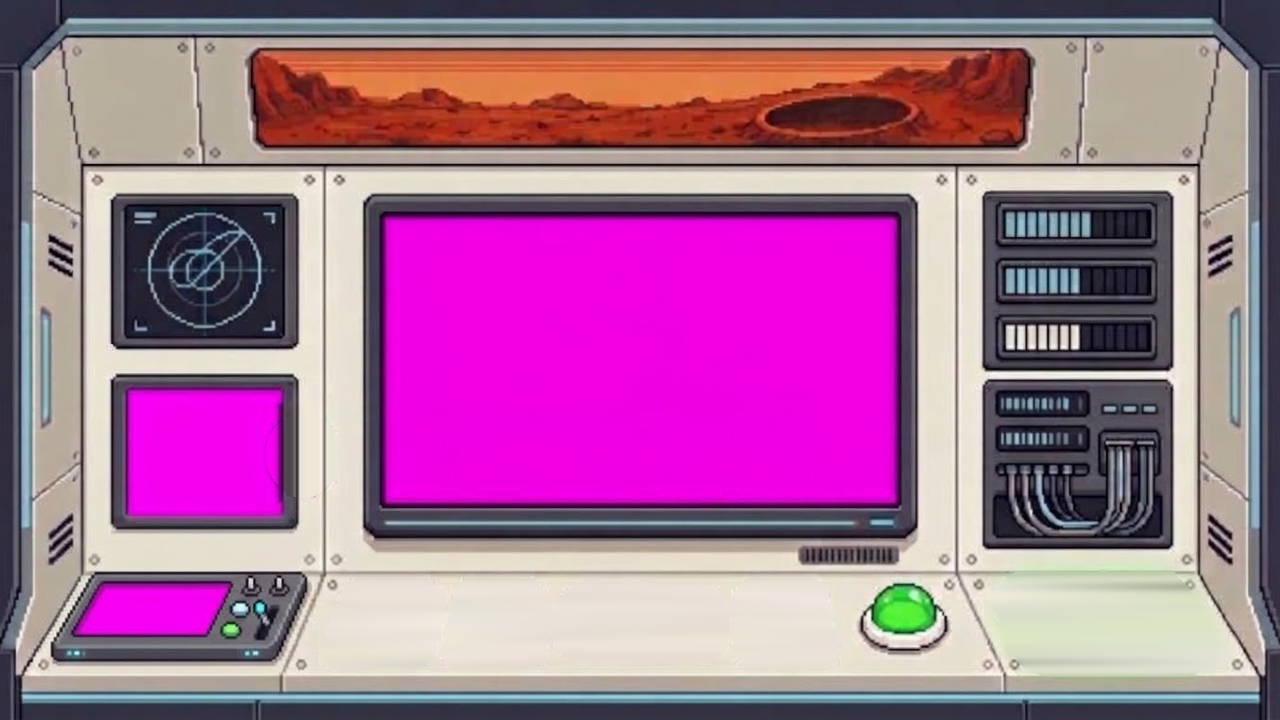
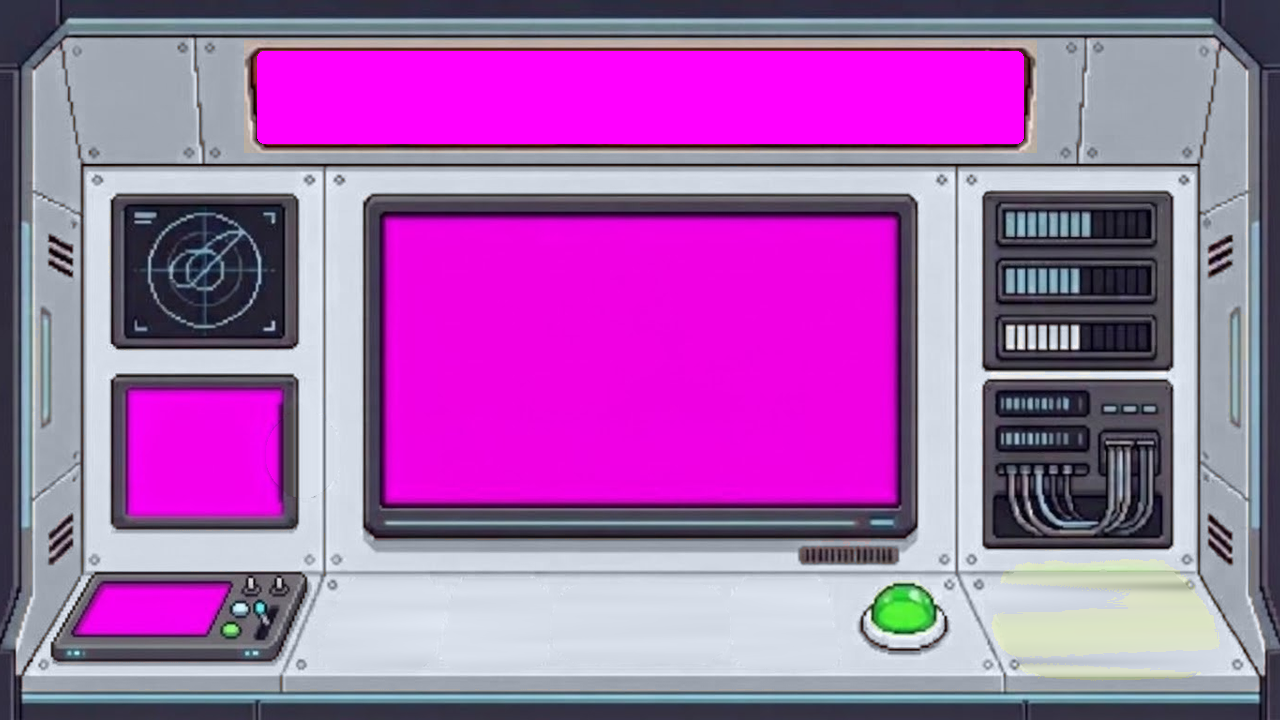
Consola como tablero bajo el parabrisas; objetos en gravedad cero
- La franja de arriba de la consola muestra el Marte real del parabrisas; grises del tablero
- Los objetos flotan lento en línea recta, giran despacio y rebotan suave; halo gris fino

diff --git a/src/scenes/cabin/floatingItems.ts b/src/scenes/cabin/floatingItems.ts
@@ -1,30 +1,65 @@
-import type Phaser from 'phaser';
+import Phaser from 'phaser';
 import { INTRO_BALANCE } from '../../config/balance';
-import { CABIN_FLOATING_ITEM_SIZE, CABIN_FLOATING_ITEMS } from '../../ui/layout';
+import {
+  CABIN_FLOATING_AREA,
+  CABIN_FLOATING_ITEM_SIZE,
+  CABIN_FLOATING_ITEMS,
+} from '../../ui/layout';
+import { PALETTE } from '../../ui/palette';
 
 /**
- * Spec 19 — A pen, a water pouch, a toy rocket, a wrench and a snack drift around the cabin:
- * in zero gravity nothing stays put. They are only decoration; nothing happens when tapped.
+ * Spec 19 — A pen, a water pouch, a toy rocket, a wrench and a snack float around the cabin.
+ * Zero gravity: nothing pushes them, so each one keeps a slow, steady drift in a straight line
+ * and a slow turn, and only changes direction when it bumps softly into a wall. A thin gray
+ * halo keeps them visible over the white walls. Only decoration: they never block a tap.
  */
-const ITEM_DEPTH = 5;
-/** Each item starts its drift a bit later, so they never move in step. */
-const STAGGER_MS = 450;
+const ITEM_DEPTH = 18;
+const HALO = { strength: 2, quality: 0.1, distance: 3 } as const;
 
-export function addFloatingItems(scene: Phaser.Scene): Phaser.GameObjects.Image[] {
-  const { itemFloatMs, itemFloatPx, itemSpinDeg } = INTRO_BALANCE;
-  return CABIN_FLOATING_ITEMS.map(({ key, x, y, angle }, index) => {
-    const item = scene.add.image(x, y, key).setAngle(angle).setDepth(ITEM_DEPTH);
-    item.setScale(CABIN_FLOATING_ITEM_SIZE / Math.max(item.width, item.height));
-    scene.tweens.add({
-      targets: item,
-      y: y - itemFloatPx,
-      angle: angle + itemSpinDeg,
-      yoyo: true,
-      repeat: -1,
-      delay: index * STAGGER_MS,
-      duration: itemFloatMs + index * STAGGER_MS,
-      ease: 'Sine.InOut',
-    });
-    return item;
+interface FloatingItem {
+  image: Phaser.GameObjects.Image;
+  velocity: Phaser.Math.Vector2;
+}
+
+export function addFloatingItems(scene: Phaser.Scene): void {
+  const items = CABIN_FLOATING_ITEMS.map(({ key, x, y, angle }) => {
+    const image = scene.add.image(x, y, key).setAngle(angle).setDepth(ITEM_DEPTH);
+    image.setScale(CABIN_FLOATING_ITEM_SIZE / Math.max(image.width, image.height));
+    image.preFX?.addGlow(PALETTE.metal, HALO.strength, 0, false, HALO.quality, HALO.distance);
+    spin(scene, image);
+    return { image, velocity: randomDrift() };
+  });
+  const drift = (_time: number, deltaMs: number) => items.forEach((item) => move(item, deltaMs));
+  scene.events.on(Phaser.Scenes.Events.UPDATE, drift);
+  scene.events.once(Phaser.Scenes.Events.SHUTDOWN, () =>
+    scene.events.off(Phaser.Scenes.Events.UPDATE, drift),
+  );
+}
+
+function randomDrift(): Phaser.Math.Vector2 {
+  const { itemDriftMinPxPerSecond, itemDriftMaxPxPerSecond } = INTRO_BALANCE;
+  const speed = Phaser.Math.FloatBetween(itemDriftMinPxPerSecond, itemDriftMaxPxPerSecond);
+  return new Phaser.Math.Vector2(speed, 0).rotate(Phaser.Math.FloatBetween(0, Math.PI * 2));
+}
+
+/** Straight ahead at the same speed; a soft bounce off the edges of the cabin. */
+function move({ image, velocity }: FloatingItem, deltaMs: number): void {
+  const { x, y, width, height } = CABIN_FLOATING_AREA;
+  image.x += (velocity.x * deltaMs) / 1000;
+  image.y += (velocity.y * deltaMs) / 1000;
+  if (image.x < x || image.x > x + width)
+    velocity.x = Math.sign(x + width / 2 - image.x) * Math.abs(velocity.x);
+  if (image.y < y || image.y > y + height)
+    velocity.y = Math.sign(y + height / 2 - image.y) * Math.abs(velocity.y);
+}
+
+/** A slow turn that never stops, clockwise or not. */
+function spin(scene: Phaser.Scene, image: Phaser.GameObjects.Image): void {
+  const { itemSpinMinMs, itemSpinMaxMs } = INTRO_BALANCE;
+  scene.tweens.add({
+    targets: image,
+    angle: image.angle + Phaser.Math.RND.pick([-1, 1]) * 360,
+    repeat: -1,
+    duration: Phaser.Math.Between(itemSpinMinMs, itemSpinMaxMs),
   });
 }

diff --git a/src/ui/layout.ts b/src/ui/layout.ts
@@ -167,7 +167,7 @@ export const CABIN_DASHBOARD_ZONE: Rect = { x: 262, y: 146, width: 116, height: 
 /** Edge of the dashboard screens, framed by the highlight when the guide points at it. */
 export const CABIN_DASHBOARD_OUTLINE: Rect = { x: 278, y: 151, width: 86, height: 26 };
 export const CABIN_GUIDE_SPOT: Point = { x: 125, y: 75 };
-/** Loose things floating in zero gravity, away from what a kid has to tap. */
+/** Loose things floating in zero gravity: where each one starts its drift. */
 export const CABIN_FLOATING_ITEMS = [
   { key: 'floatingPen', x: 205, y: 40, angle: -20 },
   { key: 'floatingSnack', x: 458, y: 52, angle: 15 },
@@ -177,6 +177,8 @@ export const CABIN_FLOATING_ITEMS = [
 ] as const;
 /** The floating things are drawn about this many game pixels tall. */
 export const CABIN_FLOATING_ITEM_SIZE = 34;
+/** Where the floating things can drift: the whole cabin, above the message panel. */
+export const CABIN_FLOATING_AREA: Rect = { x: 30, y: 30, width: 580, height: 230 };
 /** The guide sprites are cut bigger than the rest of the kit. */
 export const CABIN_GUIDE_SCALE = 0.425;
 export const CABIN_MESSAGE_PANEL: Rect = { x: 75, y: 266, width: 490, height: 86 };
@@ -184,7 +186,11 @@ export const CABIN_MESSAGE_PANEL: Rect = { x: 75, y: 266, width: 490, height: 86
 /** The tablet fills the screen; pages are drawn on its glass. */
 export const TABLET_SCREEN: Rect = { x: 89, y: 60, width: 461, height: 239 };
 
-/** Destination console: its 3 screens and the physical buttons (top-left corners). */
+/**
+ * Destination console: the dashboard under the cockpit window, seen up close. The strip at the
+ * top is the bottom of that window; then its 3 screens and the physical buttons (top-left corners).
+ */
+export const CONSOLE_WINDOW: Rect = { x: 128, y: 25, width: 384, height: 47 };
 export const CONSOLE_BIG_SCREEN: Rect = { x: 193, y: 110, width: 254, height: 141 };
 export const CONSOLE_STARS_SCREEN: Rect = { x: 62, y: 193, width: 80, height: 66 };
 export const CONSOLE_ROUTE_SCREEN: Rect = { x: 37, y: 291, width: 79, height: 27 };

diff --git a/src/scenes/monitor/MonitorScene.ts b/src/scenes/monitor/MonitorScene.ts
@@ -9,7 +9,14 @@ import {
 import { loadProgress } from '../../services/progressStorage';
 import { addScanlines } from '../../ui/techFrame';
 import { SPRITE_SCALE } from '../../ui/sprites';
-import { consoleButtonTexture, LAND_LOCKED_TEXTURE, preloadCabinArt } from '../cabin/cabinArt';
+import {
+  consoleButtonTexture,
+  INTRO_PHOTOS,
+  LAND_LOCKED_TEXTURE,
+  preloadCabinArt,
+} from '../cabin/cabinArt';
+import { addPhotoCredit, addWindowPhoto } from '../cabin/cabinView';
+import { CONSOLE_WINDOW } from '../../ui/layout';
 import { SCENE_KEYS } from '../sceneKeys';
 import { createConsoleButton, type ConsoleButton } from './consoleButton';
 import { addLandHint, type LandHint } from './landHint';
@@ -21,7 +28,7 @@ import {
 } from './monitorScreens';
 
 /**
- * Spec 19, scene 4 — The destination console, seen up close. Physical buttons browse the
+ * Spec 19, scene 4 — The destination console (the dashboard under the cockpit window), up close. Physical buttons browse the
  * places (every one can be explored), change the real photo, show the info (i) and LAND.
  * LAND only works after the first manual and on unlocked places; otherwise the screen says
  * what is still missing. It replaces the old Mars map as the way to pick a destination.
@@ -52,6 +59,9 @@ export class MonitorScene extends Phaser.Scene {
     this.view = 'photo';
     this.photoIndex = 0;
     this.screenParts = [];
+    // The bottom of the cockpit window: the same real Mars the cabin window shows.
+    addWindowPhoto(this, 'marsGlobe', CONSOLE_WINDOW);
+    addPhotoCredit(this, CONSOLE_WINDOW, INTRO_PHOTOS.marsGlobe.credit);
     this.add.image(0, 0, 'console').setOrigin(0).setScale(SPRITE_SCALE).setDepth(10);
     createConsoleButton(this, 'back', () => this.scene.start(SCENE_KEYS.cabin)).sprite.setDepth(11);
     createConsoleButton(this, 'previous', () => this.browse(-1)).sprite.setDepth(11);

diff --git a/src/config/balance.ts b/src/config/balance.ts
@@ -195,10 +195,15 @@ export const INTRO_BALANCE = {
   /** Frames of a physical console button going down and back up. */
   consolePressFrameMs: 50,
   guideFloatMs: 1_800,
-  /** Loose things in the cabin drift slower than the guide, each a bit out of step. */
-  itemFloatMs: 2_600,
-  itemFloatPx: 5,
-  itemSpinDeg: 10,
+  /**
+   * Zero gravity: loose things keep a slow, steady drift in a straight line (game px per second)
+   * and only change direction when they bump softly into a wall.
+   */
+  itemDriftMinPxPerSecond: 4,
+  itemDriftMaxPxPerSecond: 9,
+  /** One full slow turn of a floating thing, at most and at least. */
+  itemSpinMinMs: 20_000,
+  itemSpinMaxMs: 40_000,
   highlightPulseMs: 600,
   /** The arrow over LAND bounces while the ship can land. */
   landArrowBounceMs: 450,

diff --git a/docs/DECISIONS.md b/docs/DECISIONS.md
@@ -15,9 +15,9 @@ Formato:
 
 ## 2026-11-15 — En la cabina, los destinos se eligen en el tablero del centro (spec 19)
 - Quién: C (Emilia), con Claude
-- Qué se decidió: el monitor del costado derecho de la cabina se reemplazó por un rincón con trajes colgados, casco, botas y mochila (editado con Gemini solo en esa zona; el resto del dibujo queda igual). Ahora se toca la pantalla del centro del tablero, debajo de la ventana, para abrir la consola de destinos; esa pantalla muestra el mini mapa de Marte y, durante el aterrizaje, la altura. La consola de destinos de cerca no cambia.
+- Qué se decidió: el monitor del costado derecho de la cabina se reemplazó por un rincón con trajes colgados, casco, botas y mochila (editado con Gemini solo en esa zona; el resto del dibujo queda igual). Ahora se toca la pantalla del centro del tablero, debajo de la ventana, para abrir la consola de destinos; esa pantalla muestra el mini mapa de Marte y, durante el aterrizaje, la altura. La consola de destinos de cerca se adapta a ese lugar: la franja de arriba deja de ser un cuadro y pasa a ser el borde de abajo del parabrisas (con la misma foto real de Marte de la ventana), y el beige pasa a los grises claros del tablero. El botón ATERRIZAR tiene un cartel arriba y, cuando se puede aterrizar, una flecha que rebota y brillo. En la cabina flotan los objetos de `bocetos/cabina/flotantes/` (birome, bolsa de agua, cohetito, llave, snack) en gravedad cero: deriva lenta en línea recta, giro lento y rebote suave en los bordes.
 - Por qué: al probarlo, lo intuitivo era tocar la pantalla del centro para elegir misión.
-- A quién afecta: solo el spec 19 (`cabina-fondo.png`, `layout.ts`: `CABIN_DASHBOARD_*` reemplaza a `CABIN_MONITOR_*`, que solo usaba el spec 19; textos `cabin.manualDone` y `cabin.again`).
+- A quién afecta: solo el spec 19 (`cabina-fondo.png`, `layout.ts`: `CABIN_DASHBOARD_*` reemplaza a `CABIN_MONITOR_*`, que solo usaba el spec 19; textos `cabin.manualDone` y `cabin.again`; `consola-fondo.png`; clave nueva `monitor.landButton`; valores nuevos en `INTRO_BALANCE`).
 - ¿Avisado al equipo?: no todavía (va en el PR #33).
 
 ## 2026-11-15 — La intro en la cabina pasa a ser el spec 19
